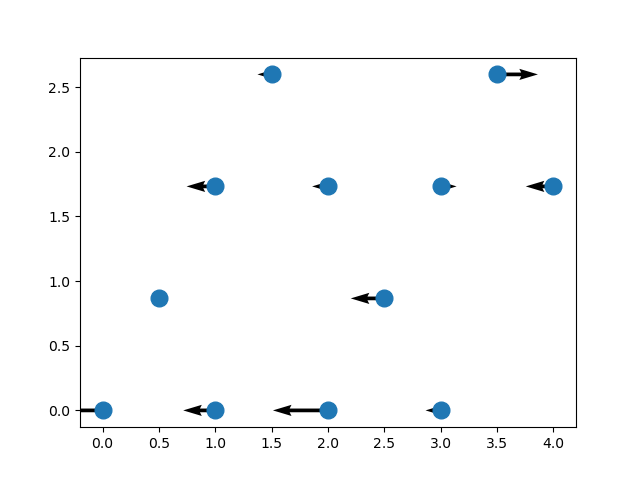
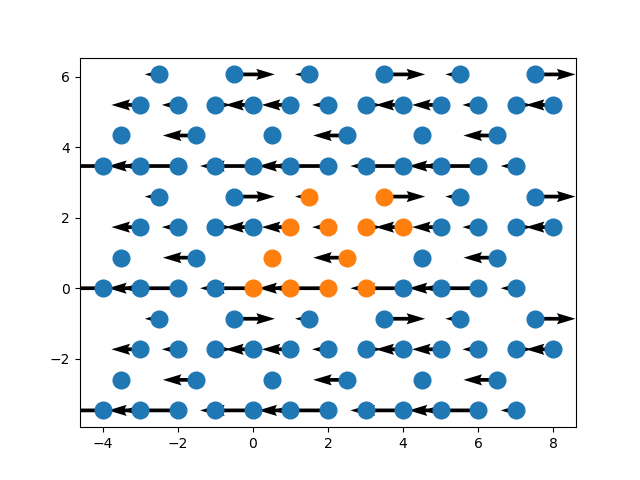
Better graph

diff --git a/src/visualisation.py b/src/visualisation.py
@@ -38,11 +38,29 @@ proj_x = exp_value_obs(sigma_x)
 proj_y = exp_value_obs(sigma_y)
 proj_z = exp_value_obs(sigma_z)
 
-x = [0, 1, 2, 3, 0.5, 2.5, 1, 2, 3, 4, 1.5, 3.5]
-y = [0, 0, 0, 0, np.sqrt(3)/2, np.sqrt(3)/2, np.sqrt(3), np.sqrt(3), np.sqrt(3), np.sqrt(3), 3*np.sqrt(3)/2, 3 *np.sqrt(3)/2]
+x = np.array([0, 1, 2, 3, 0.5, 2.5, 1, 2, 3, 4, 1.5, 3.5])
+y = np.array([0, 0, 0, 0, np.sqrt(3)/2, np.sqrt(3)/2, np.sqrt(3), np.sqrt(3), np.sqrt(3), np.sqrt(3), 3*np.sqrt(3)/2, 3 *np.sqrt(3)/2])
 
 fig, ax = plt.subplots()
-ax.plot(x, y, "o", markersize=12)
+# Région élémentaire
+ax.plot(x, y, "o", markersize=12, color="tab:orange")
+# Région pour le visuel
+ax.plot(x + 4, y, "o", markersize=12, color="tab:blue")
+ax.plot(x - 4, y, "o", markersize=12, color="tab:blue")
+ax.plot(x, y + 2*np.sqrt(3), "o", markersize=12, color="tab:blue")
+ax.plot(x, y - 2*np.sqrt(3), "o", markersize=12, color="tab:blue")
+ax.plot(x + 4, y - 2*np.sqrt(3), "o", markersize=12, color="tab:blue")
+ax.plot(x - 4, y - 2*np.sqrt(3), "o", markersize=12, color="tab:blue")
+ax.plot(x + 4, y + 2*np.sqrt(3), "o", markersize=12, color="tab:blue")
+ax.plot(x - 4, y + 2*np.sqrt(3), "o", markersize=12, color="tab:blue")
 ax.quiver(x, y, proj_x, proj_y)
+ax.quiver(x - 4, y, proj_x, proj_y)
+ax.quiver(x + 4, y, proj_x, proj_y)
+ax.quiver(x, y + 2*np.sqrt(3), proj_x, proj_y)
+ax.quiver(x, y - 2*np.sqrt(3), proj_x, proj_y)
+ax.quiver(x + 4, y + 2*np.sqrt(3), proj_x, proj_y)
+ax.quiver(x + 4, y - 2*np.sqrt(3), proj_x, proj_y)
+ax.quiver(x - 4, y + 2*np.sqrt(3), proj_x, proj_y)
+ax.quiver(x - 4, y - 2*np.sqrt(3), proj_x, proj_y)
 
 fig.savefig("Images/spins_periodique.png")
